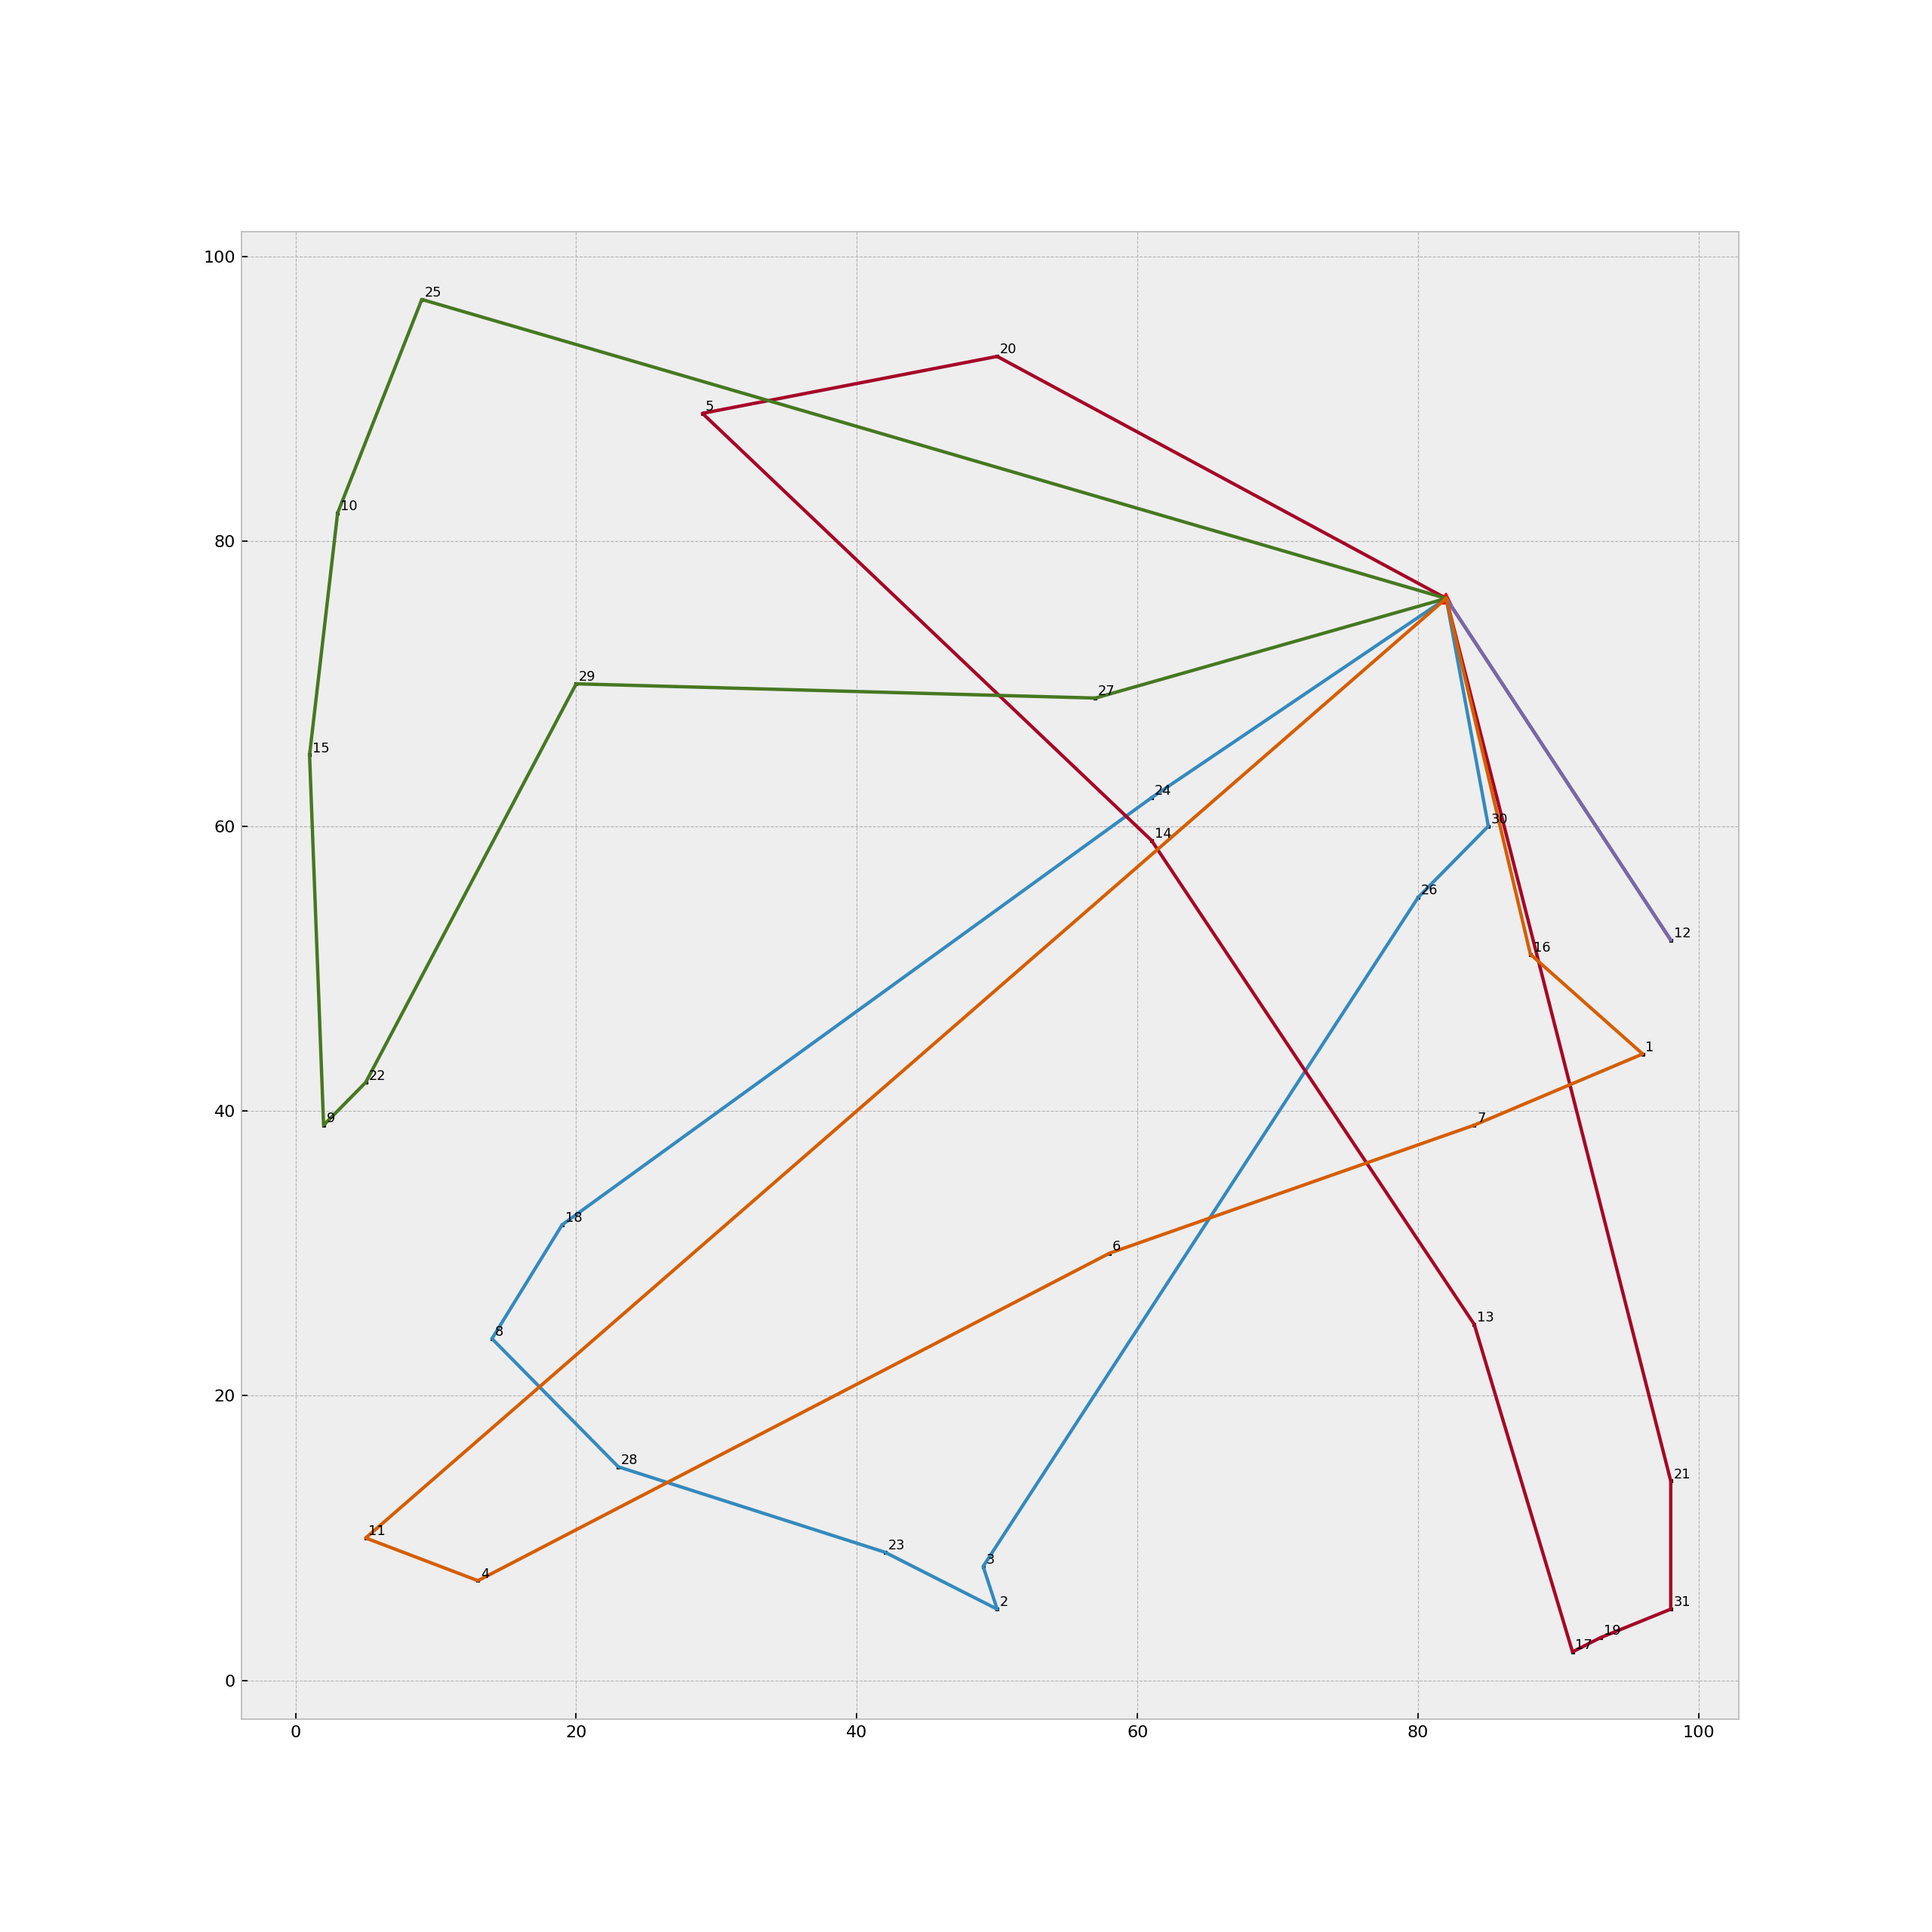
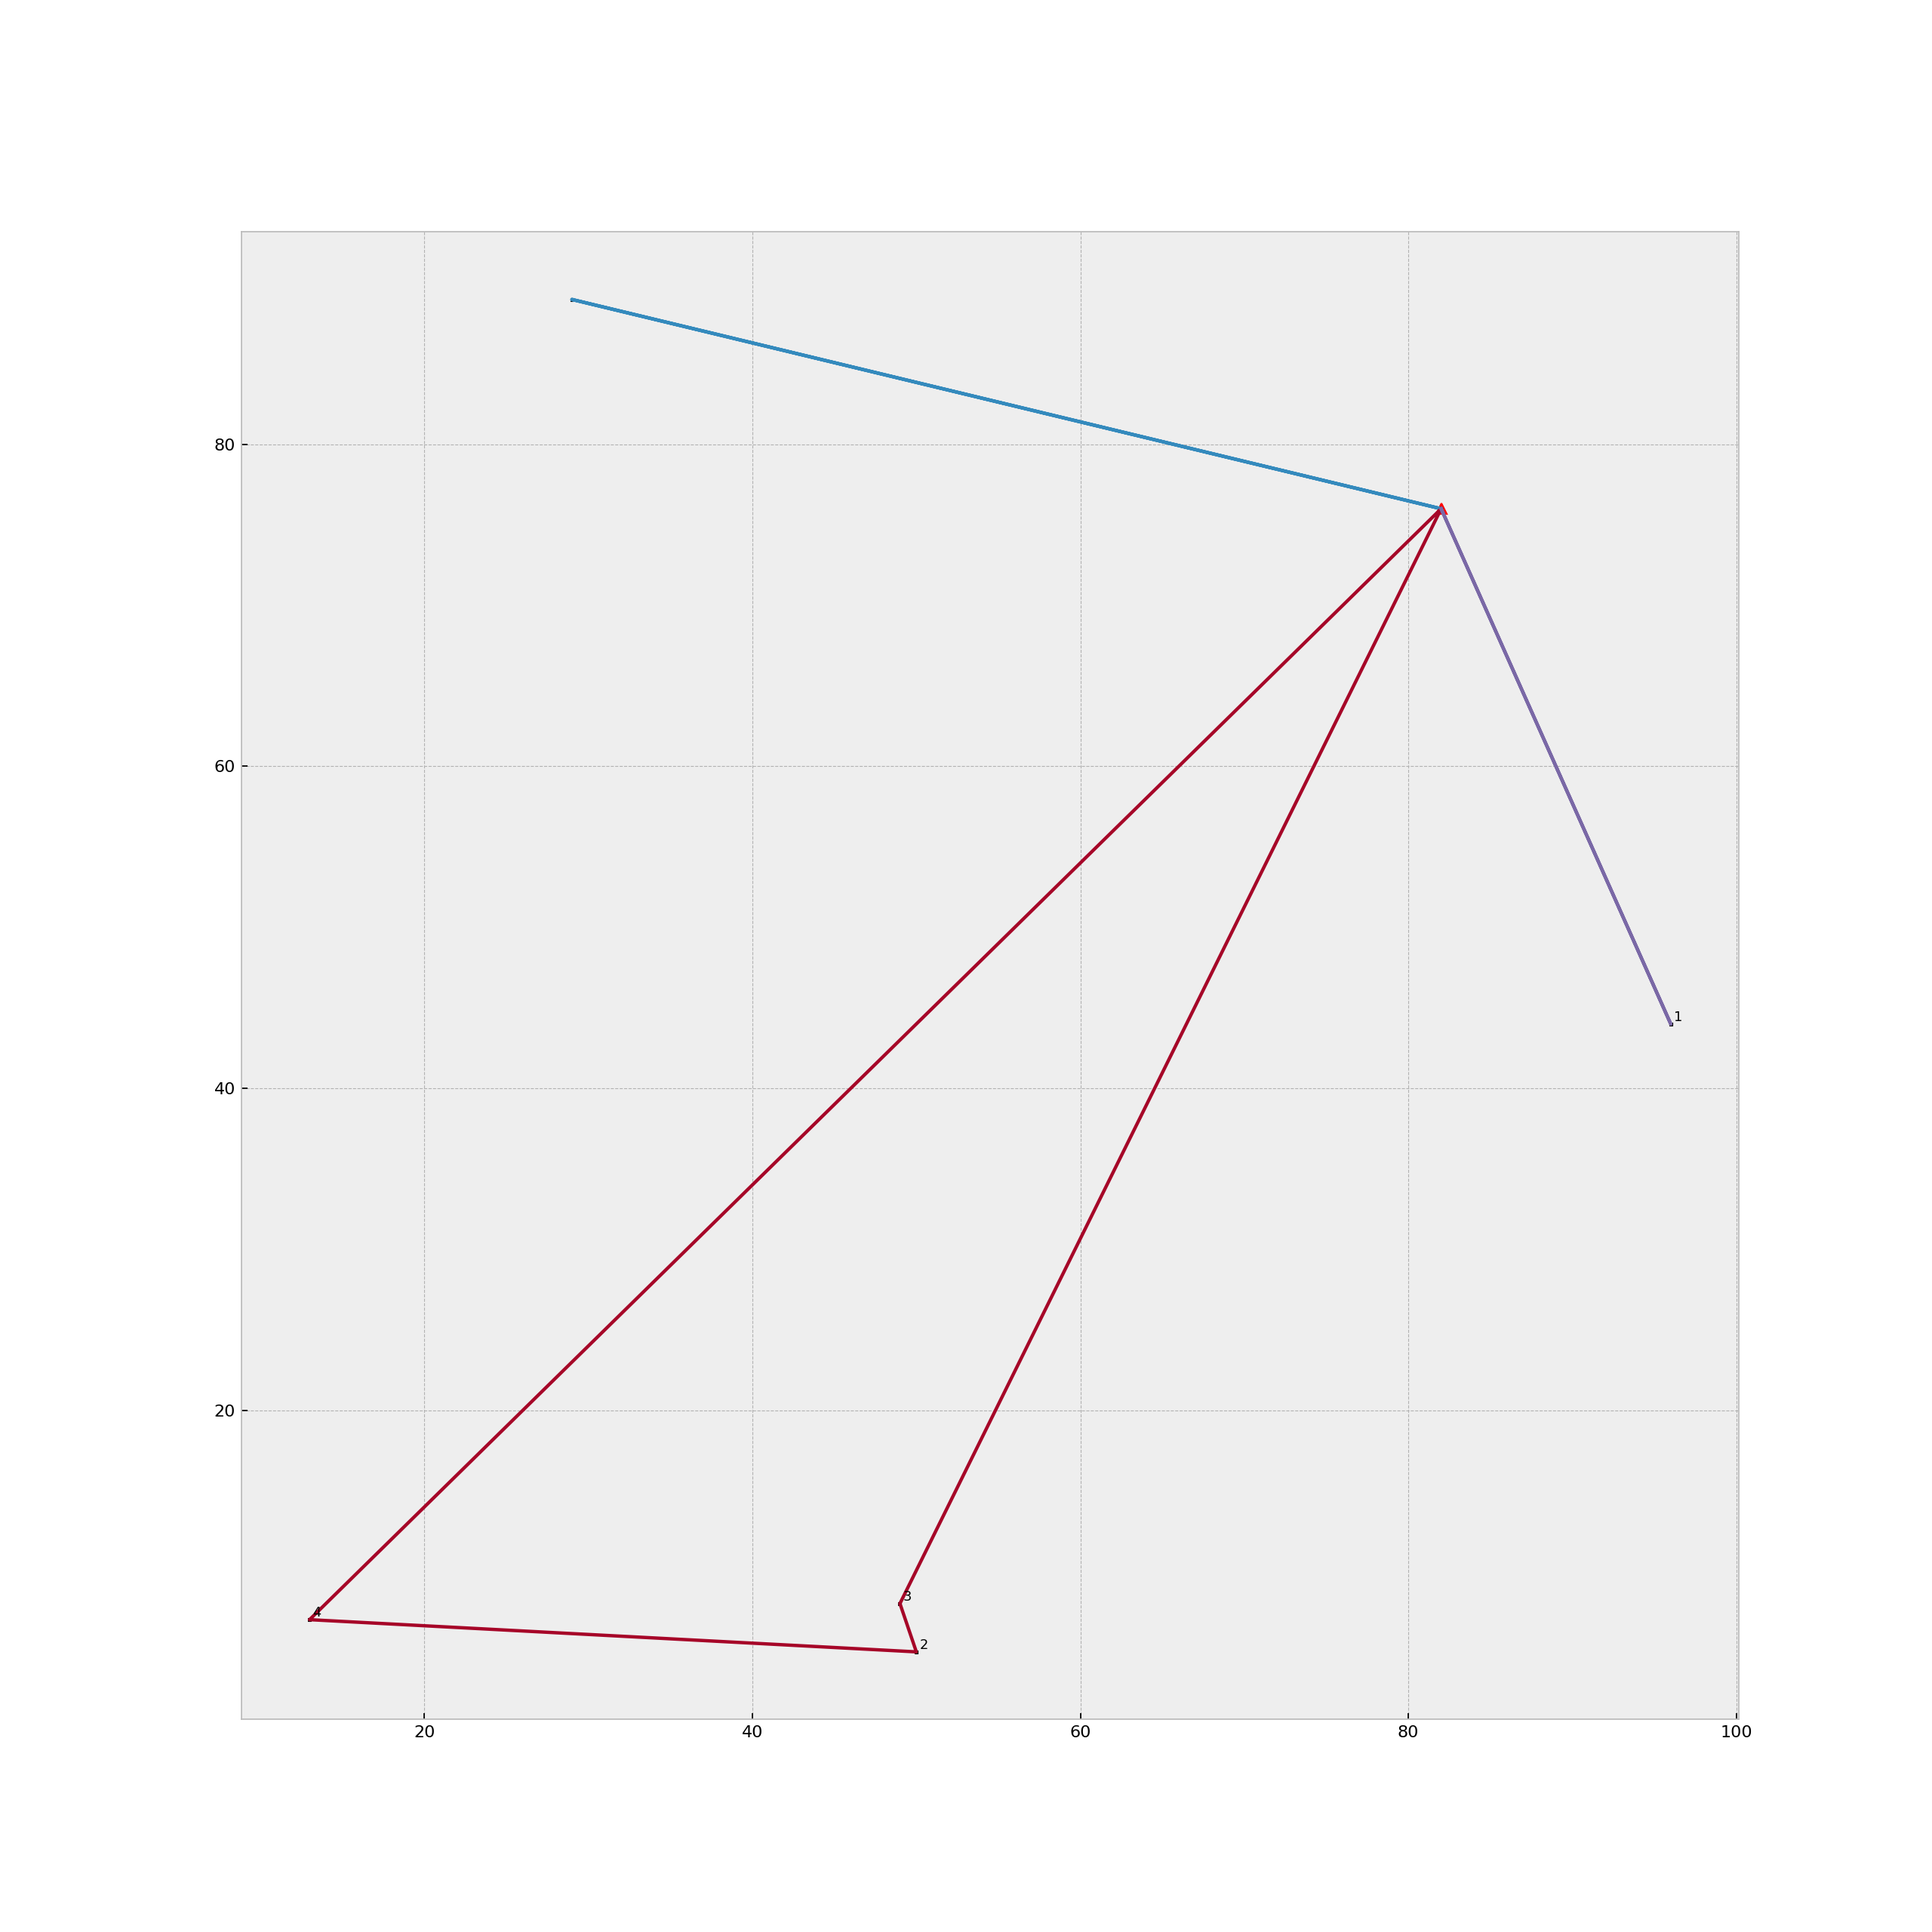
deixando o plot do grafico generico

diff --git a/tcc/vrp.py b/tcc/vrp.py
@@ -9,34 +9,21 @@ from vizinhancas.twoOpt import twoOpt
 from vizinhancas.realocacao import realocacao
 from vizinhancas.troca import troca
 from vizinhancas.orOpt import orOpt
-
-from matplotlib import pyplot as plt
-plt.style.use('bmh')
-
-def vrp_graph(tour, x, y, name):
-    plt.figure(figsize=(16, 16), dpi=160)
-    plt.plot(x[0], y[0], 'r^')
-    plt.scatter(x[1:], y[1:], s=5, c='k', marker=',')
-    for i in range(1, 31 + 1):
-        plt.annotate(i, (x[i] + 0.2, y[i] + 0.2), size=8)
-    for i in range(len(tour)):
-        plt.plot(x[tour[i]], y[tour[i]])
-
-    plt.savefig(name)
+from plotarRotas import vrp_graph
 
 # ---------------------------------------------------------------------------------- #
 
-clientes, demanda, xcoor, ycoor, capacidade, numVeiculos, resultadoOtimo = carregarDados('A-n32-k5vrp.txt')
+clientes, demanda, xcoor, ycoor, capacidade, numVeiculos, qtdClientes, resultadoOtimo = carregarDados('A-n32-k5vrp.txt')
 clientes = clientes.tolist()
 
 distanciaGeral = sys.maxsize
 start_time = datetime.now()
-for i in range(50):
+for i in range(1):
     rotas = dividirClientes.gerarRotasIniciais(numVeiculos, clientes[:], demanda, capacidade)
     backup = rotas.copy()
     distanciaTotal = calcularCusto(rotas, clientes)
 
-    for j in range(50):
+    for j in range(1):
         rotas = twoOpt(rotas, clientes)
         rotas = troca(rotas, clientes, demanda, capacidade)
         rotas = orOpt(rotas, clientes, 1)
@@ -50,8 +37,8 @@ for i in range(50):
 
 
 end_time = datetime.now()
-vrp_graph(backup, xcoor, ycoor, 'inicial')
-vrp_graph(rotas, xcoor, ycoor, 'final')
+vrp_graph(backup, xcoor, ycoor, qtdClientes, 'inicial')
+vrp_graph(rotas, xcoor, ycoor, qtdClientes, 'final')
 print('Distancia Final =', distanciaGeral, '\n')
 print(rotas)
 print('Duration: {}'.format(end_time - start_time))

diff --git a/tcc/prepararDados.py b/tcc/prepararDados.py
@@ -13,7 +13,7 @@ def carregarDados(nomeArquivo):
         for j in range(qtdClientes + 1):
             matrixCusto[i][j] = np.sqrt((xcoor[i] - xcoor[j]) ** 2 + (ycoor[i] - ycoor[j]) ** 2)
 
-    return matrixCusto, demanda, xcoor, ycoor, capacidade, numVeiculos, resultadoOtimo
+    return matrixCusto, demanda, xcoor, ycoor, capacidade, numVeiculos, qtdClientes, resultadoOtimo
 
 def carregar(nomeArquivo):
     linhasArquivo = []
@@ -30,8 +30,8 @@ def carregar(nomeArquivo):
     qtdClientes = int(linhasArquivo[3].split(' ')[-1])
     capacidade = int(linhasArquivo[5].split(' ')[-1])
 
-    inicioCoordenadas = 7
-    inicioDemandas = 40
+    inicioCoordenadas = linhasArquivo.index("NODE_COORD_SECTION") + 1
+    inicioDemandas = linhasArquivo.index("DEMAND_SECTION") + 1
     clientes = []
 
     for i in range(inicioCoordenadas, inicioCoordenadas + int(qtdClientes)):

diff --git a/tcc/plotarRotas.py b/tcc/plotarRotas.py
@@ -1,0 +1,13 @@
+from matplotlib import pyplot as plt
+plt.style.use('bmh')
+
+def vrp_graph(tour, x, y, qntClientes, name):
+    plt.figure(figsize=(16, 16), dpi=160)
+    plt.plot(x[0], y[0], 'r^')
+    plt.scatter(x[1:], y[1:], s=5, c='k', marker=',')
+    for i in range(1, qntClientes):
+        plt.annotate(i, (x[i] + 0.2, y[i] + 0.2), size=8)
+    for i in range(len(tour)):
+        plt.plot(x[tour[i]], y[tour[i]])
+
+    plt.savefig(name)
